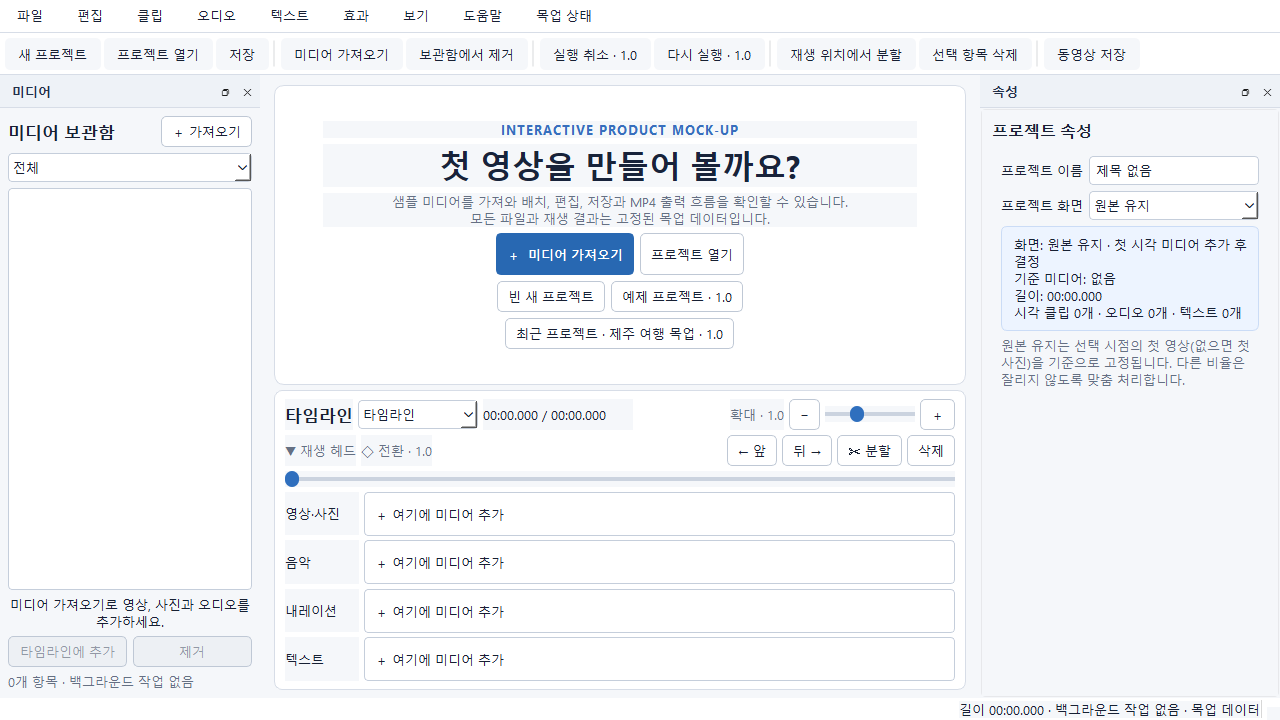
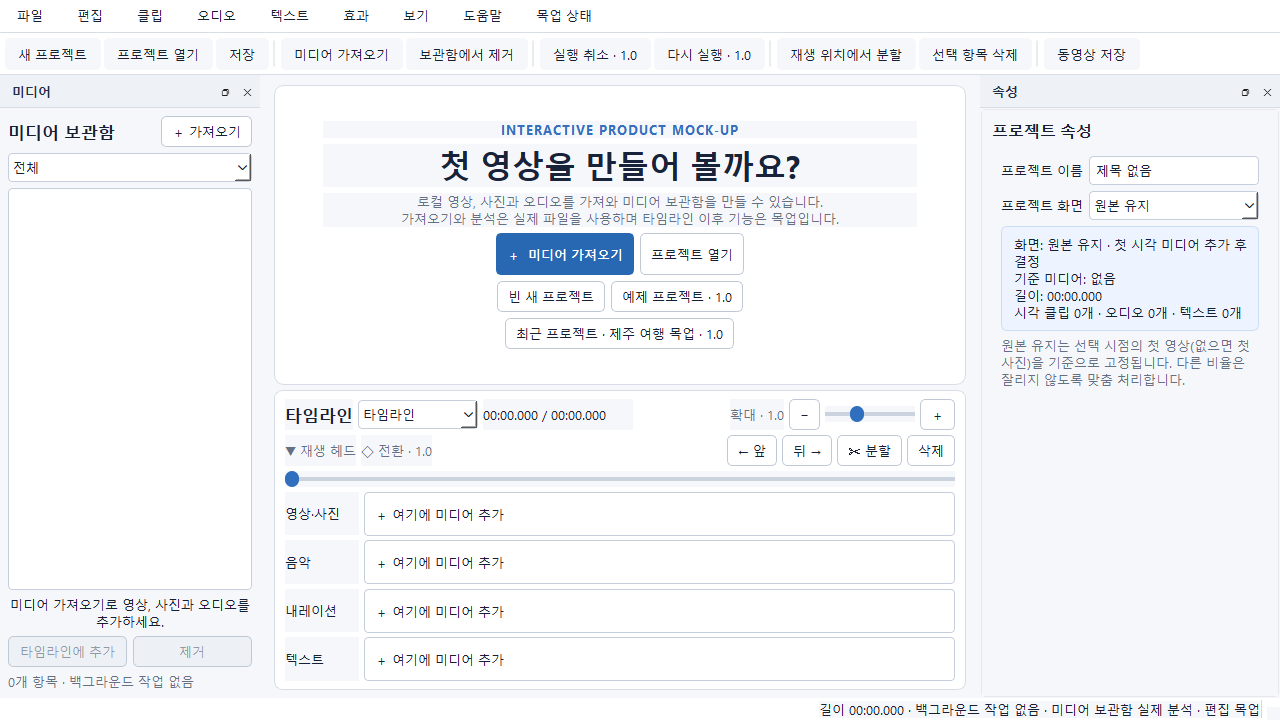
docs: record W-02 implementation results

Changed region(s): [[0.3125, 0.275, 0.6562, 0.3361], [0.625, 0.9778, 1.0, 1.0]]

diff --git a/docs/mock/mock-0002-validation-scenarios.md b/docs/mock/mock-0002-validation-scenarios.md
@@ -10,8 +10,8 @@
 
 ## 목적
 
-이 문서는 고정 샘플 데이터로 인터랙티브 목업을 실행하고 MVP와 1.0의 대표 흐름, 빈 상태,
-오류 상태와 반응형 레이아웃을 같은 절차로 다시 검증하기 위한 기준이다. 통과 결과는
+이 문서는 W-02 실제 미디어 보관함과 고정 샘플 데이터를 함께 사용해 MVP·1.0의 대표 흐름,
+빈 상태, 오류 상태와 반응형 레이아웃을 같은 절차로 다시 검증하기 위한 기준이다. 통과 결과는
 [MOCK-0003](mock-0003-review-log.md)에 기록한다.
 
 목업 통과는 실제 미디어 디코딩, 프로젝트 직렬화 또는 MP4 출력이 구현됐다는 뜻이 아니다.
@@ -42,9 +42,9 @@ uv --managed-python run --locked --no-sync -- python scripts/mock/capture_mock.p
 | 책임 | 현재 목업 구현 | 실제 배선 단계의 교체 대상 |
 | --- | --- | --- |
 | 화면과 사용자 의도 전달 | `src/movie_maker/ui/main_window.py` | 유지하며 서비스 호출 어댑터만 교체 |
-| 보조 화면과 대화상자 | `src/movie_maker/ui/dialogs.py` | 운영체제 파일 선택, 장치 및 작업 서비스 연결 |
+| 보조 화면과 대화상자 | `src/movie_maker/ui/dialogs.py` | 프로젝트 파일 선택, 장치 및 작업 서비스 연결 |
 | 고정 샘플 상태 구조 | `src/movie_maker/ui/mock_model.py` | 프로젝트·미디어 도메인 모델 |
-| 가짜 상태 변화와 명령 경계 | `src/movie_maker/ui/mock_controller.py` | 실제 명령 실행기, 저장소, 재생 및 출력 서비스 |
+| 실제 보관함과 가짜 후속 상태의 명령 경계 | `src/movie_maker/ui/mock_controller.py` | 프로젝트 저장소, 타임라인, 재생 및 출력 서비스 |
 | UI 및 상태 회귀 검증 | `tests/ui/` | 실제 서비스 계약 테스트와 함께 유지·확장 |
 
 위젯은 목업 상태를 직접 수정하지 않는다. 사용자 입력은 `MockController`의 의도 메서드로
@@ -56,9 +56,10 @@ uv --managed-python run --locked --no-sync -- python scripts/mock/capture_mock.p
 ## 공통 사전 조건
 
 - 애플리케이션을 새로 실행하면 `제목 없음`, 빈 보관함과 빈 타임라인에서 시작한다.
-- `미디어 가져오기`는 MOCK-0001에 정의한 정상 샘플 다섯 개를 반환한다.
+- `미디어 가져오기`는 운영체제 다중 파일 선택 창에서 선택한 실제 파일을 분석한다.
+- 후속 목업 흐름은 `샘플 편집 프로젝트 불러오기`의 정상 샘플 다섯 개를 사용한다.
 - `프로젝트 열기`와 `샘플 편집 프로젝트 불러오기`는 19초짜리 `제주 여행 목업`을 연다.
-- 실제 원본, 프로젝트 파일과 MP4 파일은 만들거나 변경하지 않는다.
+- 선택한 원본은 읽기만 하며 프로젝트 파일과 MP4 파일은 아직 만들지 않는다.
 - 정상 흐름과 오류 흐름 모두 현재 프로젝트의 편집 상태를 잃지 않아야 한다.
 
 ## MVP 핵심 흐름
@@ -70,19 +71,19 @@ uv --managed-python run --locked --no-sync -- python scripts/mock/capture_mock.p
 1. 새 목업을 실행하거나 `빈 프로젝트로 초기화`한다.
 2. 시작 화면, 보관함, 타임라인과 비활성화된 출력 명령을 확인한다.
 3. 시작 화면의 `미디어 가져오기`를 누른다.
-4. 전체·영상·사진·오디오 필터를 차례로 선택한다.
-5. 1.0 파일 드롭 경로가 같은 샘플 가져오기와 검증 결과를 사용하는지 확인한다.
+4. 지원되는 영상·사진·오디오를 운영체제 창에서 함께 선택한다.
+5. 전체·영상·사진·오디오 필터를 차례로 선택한다.
 
 합격 기준:
 
 - 시작 화면에서 가져오기가 가장 강조되고 새 프로젝트와 열기는 보조 행동이다.
-- 다섯 항목이 종류, 이름, 길이 또는 사진 표시, 상태와 함께 구분된다.
+- 성공 항목이 종류, 이름, 길이 또는 사진 표시, 상태와 썸네일로 구분된다.
 - 필터는 실제 보관함과 숨겨진 선택을 변경하지 않는다.
-- 파일 드롭도 중복 항목을 만들지 않고 목업 대체 결과임을 상태에 표시한다.
-- 가져오기 결과, 수정됨 상태와 다음 행동이 즉시 표시된다.
+- 원본 파일의 내용, 크기와 수정 시간은 바뀌지 않는다.
+- 가져오기 결과, 수정됨 상태와 다음 행동이 즉시 표시되며 취소는 상태를 바꾸지 않는다.
 
-자동 검증: `test_start_import_switches_to_editing_workspace`,
-`test_sample_import_is_idempotent_and_recorded_as_one_edit`,
+자동 검증: `test_default_selector_uses_native_multi_file_dialog`,
+`test_main_window_import_action_uses_selected_files_and_shows_failures`,
 `test_library_filter_keeps_selection_state_but_changes_visible_items`.
 
 ### V-MVP-02: 고정 트랙 배치와 원본 화면 결정
@@ -168,17 +169,18 @@ uv --managed-python run --locked --no-sync -- python scripts/mock/capture_mock.p
 연결 기능: `F-MEDIA-04`, `F-TIMELINE-03`.
 
 1. 타임라인에서 사용하지 않는 항목을 보관함에서 제거한다.
-2. 사용 중인 기준 미디어를 제거하고 영향 확인을 취소한다.
-3. 다시 시도하여 제거를 승인한다.
+2. 사용 중인 기준 미디어 제거를 시도한다.
+3. 관련 클립 수와 클립을 먼저 제거하라는 안내를 확인한다.
 
 합격 기준:
 
 - 미사용 항목은 즉시 보관함에서만 제거된다.
-- 사용 중 항목은 관련 클립 수와 원본 파일을 삭제하지 않는다는 사실을 먼저 알린다.
-- 기준 미디어를 제거해도 이미 고정된 프로젝트 화면 1920×1080은 바뀌지 않는다.
-- 제거 결과를 실행 취소할 수 있다.
+- 사용 중 항목은 관련 클립 수를 알리고 제거를 거부한다.
+- 성공과 거부 모두 컴퓨터의 원본 파일 내용과 메타데이터를 바꾸지 않는다.
+- 성공한 제거는 W-01 명령 이력에 기록된다.
 
-자동 검증: `test_removing_used_reference_keeps_canvas_but_removes_related_clips`.
+자동 검증: `test_unused_real_item_removal_keeps_source_file_and_removes_core_reference`,
+`test_used_real_item_removal_is_refused_with_impact_count`.
 
 ### V-MVP-07: 미리 보기와 탐색
 
@@ -321,17 +323,19 @@ uv --managed-python run --locked --no-sync -- python scripts/mock/capture_mock.p
 
 연결 기능: `F-MEDIA-03`, `09`, `F-EXPERIENCE-02`.
 
-1. `가져오기 부분 실패 표시`를 실행한다.
-2. 성공 항목과 오류 항목, 보관함 경고를 확인한다.
-3. 문제 있음 필터를 선택한다.
+1. 정상 영상·사진·오디오, 손상 파일과 미지원 파일을 한 번에 선택한다.
+2. 성공 항목과 파일별 실패 이유, 썸네일 결과를 확인한다.
+3. 성공 파일 하나를 다시 선택해 중복 건너뜀을 확인한다.
 
 합격 기준:
 
 - 한 파일의 실패가 정상 항목을 제거하지 않는다.
-- 오류 항목은 이름, 오류 배지와 실패 이유를 유지한다.
+- 오류 결과는 파일명과 실패 이유를 유지하고 유효하지 않은 프로젝트 항목을 만들지 않는다.
+- 썸네일 실패는 미디어 항목을 유지하고 기본 아이콘과 경고를 표시한다.
 - 보관함 전체가 비었다는 상태와 필터 결과가 없다는 상태를 구분한다.
 
-자동 검증: `test_missing_media_and_partial_failure_remain_visible_and_recoverable`.
+자동 검증: `test_mixed_batch_keeps_video_photo_audio_successes_and_file_failures`,
+`test_main_window_import_action_uses_selected_files_and_shows_failures`.
 
 ### V-ERROR-03: 출력 실패와 재시도
 

diff --git a/README.md b/README.md
@@ -4,10 +4,11 @@
 
 이 프로젝트는 영상 편집을 처음 접하는 사람도 미디어를 불러오고, 필요한 부분만 남기고, 순서를 정하고, 음악과 자막을 더해 하나의 동영상으로 저장할 수 있게 만드는 것을 목표로 합니다. 전문 편집기의 복잡한 기능을 따라가기보다 **쉽게 배우고 빠르게 완성하는 경험**에 집중합니다.
 
-현재는 실행 환경 스캐폴딩, MVP·1.0 화면 계약을 검증하는 인터랙티브 Qt 목업과 UI에서
-분리된 W-01 프로젝트 코어까지 구현되어 있습니다. 프로젝트 코어는 정수 나노초 시간,
-불변 미디어·클립·트랙 모델과 원자적인 명령 이력을 제공합니다. 목업은 여전히 고정 샘플
-상태만 바꾸며 실제 미디어 재생, 프로젝트 파일 저장과 MP4 출력 로직은 아직 구현 전입니다.
+현재는 실행 환경 스캐폴딩, MVP·1.0 화면 계약을 검증하는 인터랙티브 Qt 목업, W-01 프로젝트
+코어와 W-02 실제 미디어 보관함까지 구현되어 있습니다. 로컬 영상·사진·오디오를 다중 선택하면
+ffprobe 분석 결과와 원본 시간 정보를 명령 경계를 통해 프로젝트에 추가하고, 시각 미디어는
+ffmpeg 썸네일을 표시합니다. 타임라인 편집, 재생, 프로젝트 파일 저장과 MP4 출력은 여전히
+목업이며 실제 로직은 구현 전입니다.
 
 ## 문서 읽기 안내
 
@@ -28,6 +29,8 @@
 - 프로젝트 시간, 스키마와 명령 실행기의 현재 계약은
   [DESIGN-0003](docs/design/design-0003-project-core-contract.md)과
   [ADR-0003](docs/decisions/adr-0003-project-core-state-and-storage.md)을 확인합니다.
+- 실제 파일 분석, 부분 성공, 중복과 썸네일·제거 경계는
+  [DESIGN-0004](docs/design/design-0004-media-library-contract.md)를 확인합니다.
 - 기술 결정이나 라이선스처럼 특정 주제가 필요하면 문서 안내의 목적별 탐색표에서 관련
   ADR 또는 정책 문서를 찾습니다.
 
@@ -286,9 +289,10 @@ bash ./scripts/environment/setup.sh \
 bash ./scripts/environment/run.sh
 ```
 
-현재는 고정 샘플 데이터로 가져오기, 타임라인 편집, 속성, 미리 보기, 저장과 출력 상태를
-시험하는 인터랙티브 목업이 열립니다. 실제 미디어나 파일은 변경하지 않습니다. 버전과 DLL
-로딩만 확인하고 창을 열지 않으려면 다음을 실행합니다.
+현재 미디어 가져오기와 보관함 제거는 실제 로컬 파일을 대상으로 동작합니다. 가져오기는
+ffprobe로 메타데이터를 읽고 ffmpeg 썸네일을 메모리에 만들지만 원본을 복사하거나 수정하지
+않습니다. 타임라인 편집, 속성, 미리 보기, 프로젝트 저장과 출력은 고정 상태를 사용하는
+인터랙티브 목업입니다. 버전과 DLL 로딩만 확인하고 창을 열지 않으려면 다음을 실행합니다.
 
 ```powershell
 .\scripts\environment\run.ps1 `
@@ -366,7 +370,7 @@ uv --managed-python run --locked --no-sync -- movie-maker --online
 
 ### 1단계 — 편집 코어(MVP)
 
-- [ ] 새 프로젝트 및 영상·오디오·이미지 가져오기
+- [x] 새 프로젝트 및 영상·오디오·이미지 가져오기
 - [ ] 미디어 보관함과 항목 제거, 미리 보기 플레이어, 기본 타임라인 UI
 - [ ] 영상·오디오 클립 추가, 이동, 삭제, 분할, 트리밍
 - [x] 편집 동작의 명령 실행 경계와 세션 행동 이력 구조
@@ -453,7 +457,8 @@ uv --managed-python run --locked --no-sync -- movie-maker --online
 | 실행/배포 방식 | uv 환경 구현, 선택적 네이티브 런처는 설계 완료 |
 | UI 프로토타입 | MVP·1.0 인터랙티브 목업과 검증 기준선 승인 |
 | 프로젝트 코어 | W-01 시간·클립 모델과 원자적 명령 이력 구현 |
-| 미디어·편집·렌더링 서비스 | W-02 이후 실제 파일 분석, 재생과 출력은 시작 전 |
+| 미디어 보관함 | W-02 파일 선택, ffprobe 분석, 썸네일, 부분 성공·중복·안전한 제거 구현 |
+| 편집·재생·렌더링 서비스 | W-03 이후 저장, 실제 타임라인, 재생과 출력은 시작 전 |
 | 첫 사용 가능 버전 | 미배포 |
 
 완료되지 않은 편집 기능은 README에서 지원한다고 표시하지 않습니다.

diff --git a/docs/design/design-0001-screen-layout.md b/docs/design/design-0001-screen-layout.md
@@ -344,7 +344,7 @@
 ### 공통 메시지
 
 - 저장하지 않은 변경 확인
-- 보관함에서 사용 중인 미디어 제거 영향 확인
+- 보관함에서 사용 중인 미디어 제거 거부와 영향 안내
 - 지원하지 않는 파일과 부분 가져오기 결과
 - 명령 수행 불가 이유
 - 출력 실패와 다음 행동
@@ -354,9 +354,9 @@
 
 ### 운영체제 파일 대화상자
 
-미디어 가져오기, 프로젝트 열기·저장, 누락 파일 찾기와 출력 위치 선택은 운영체제 파일
-대화상자를 사용한다. 목업에서는 고정된 샘플 결과를 반환하되 실제 화면의 진입 및 취소
-경로를 동일하게 유지한다.
+미디어 가져오기는 W-02에서 운영체제 다중 파일 대화상자에 실제로 연결됐다. 프로젝트
+열기·저장, 누락 파일 찾기와 출력 위치 선택은 후속 작업 전까지 고정된 목업 결과를 반환하되
+실제 화면의 진입 및 취소 경로를 동일하게 유지한다.
 
 ## 기능군별 화면 대응
 
@@ -378,7 +378,7 @@
 | 상태 | 확인할 화면 |
 | --- | --- |
 | 새 프로젝트, 미디어 없음 | `S-START`, `S-LIBRARY`, `S-PREVIEW`, `S-TIMELINE` |
-| 샘플 미디어 가져오기 완료 | `S-LIBRARY`, 상태 표시줄 |
+| 실제 또는 목업 샘플 미디어 가져오기 완료 | `S-LIBRARY`, 상태 표시줄 |
 | 영상·사진·음악이 배치된 편집 상태 | `S-PREVIEW`, `S-INSPECTOR`, `S-TIMELINE` |
 | 저장하지 않은 변경 | 제목 표시줄, 파일 메뉴, `S-MESSAGE` |
 | 미디어 선택과 클립 선택 | `S-LIBRARY`, `S-INSPECTOR`, `S-TIMELINE` |

diff --git a/docs/design/design-0002-element-functions.md b/docs/design/design-0002-element-functions.md
@@ -279,7 +279,7 @@ UI 구조와 분리해 같은 용어를 메뉴, 상태와 대화상자에서 재
 | 상황 | 주 메시지 | 행동 순서 |
 | --- | --- | --- |
 | 저장하지 않은 변경 | 변경을 저장할지 질문하고 대상 프로젝트명을 표시 | 저장, 저장하지 않음, 취소 |
-| 사용 중 미디어 제거 | 영향을 받는 클립 수와 원본은 삭제되지 않음을 표시 | 제거, 취소 |
+| 사용 중 미디어 제거 | 영향을 받는 클립 수와 원본은 변경되지 않음을 표시 | 확인, 관련 클립을 먼저 제거 |
 | 부분 가져오기 실패 | 성공 수와 실패 파일별 이유 표시 | 확인, 상세 정보 |
 | 누락 미디어 | 마지막 경로와 영향을 받는 클립 표시 | 다시 연결(1.0), 누락 상태로 열기, 취소 |
 | 출력 취소 | 불완전 파일 처리 결과를 표시 | 출력 취소, 계속 |
